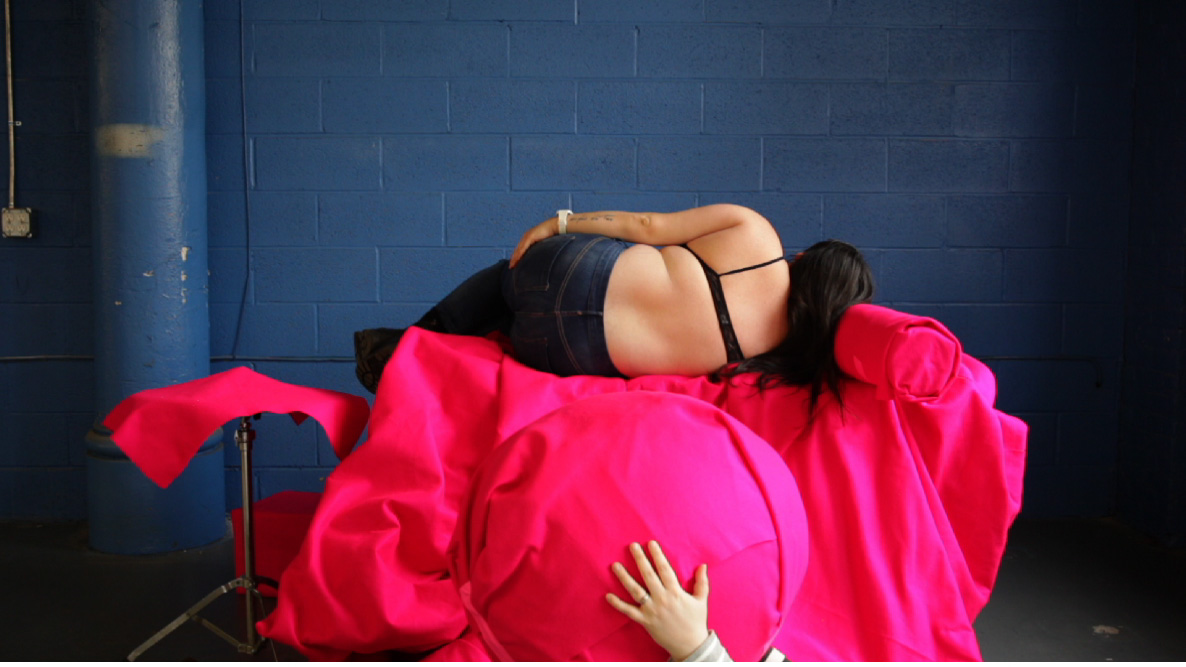
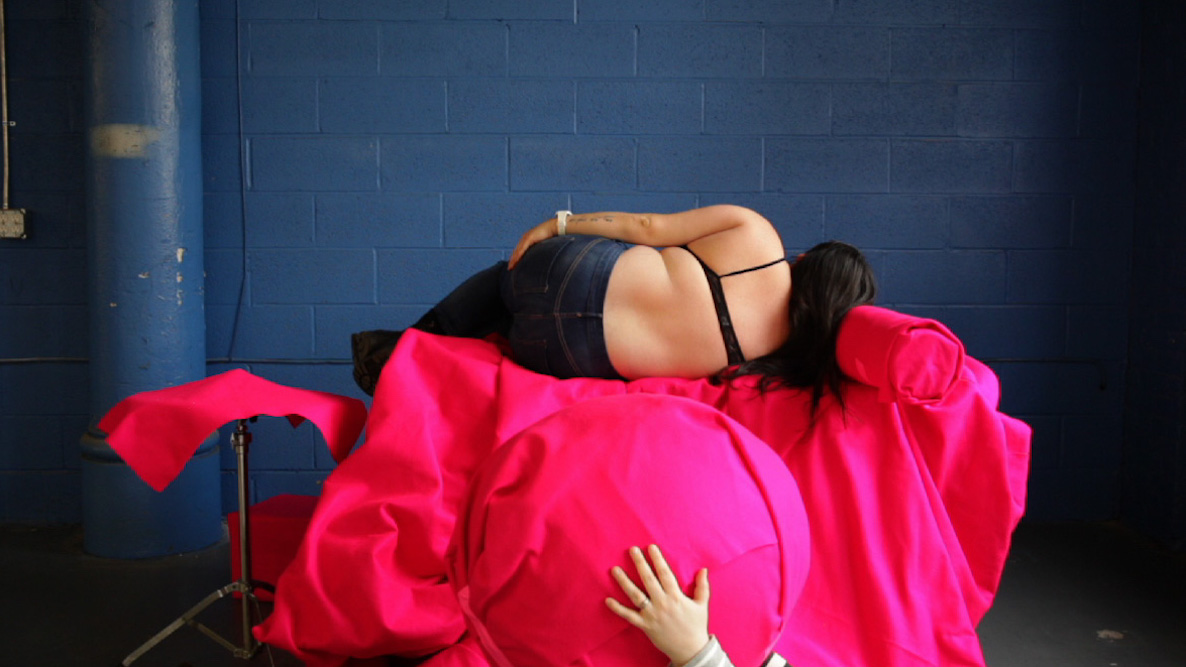
remove white border from two images

diff --git a/public/c96986d83839e397245932dbc61a4929.css b/public/c96986d83839e397245932dbc61a4929.css
@@ -1,381 +1,1 @@
-/* http://meyerweb.com/eric/tools/css/reset/
-   v2.0 | 20110126
-   License: none (public domain)
-*/
-html, body, div, span, applet, object, iframe,
-h1, h2, h3, h4, h5, h6, p, blockquote, pre,
-a, abbr, acronym, address, big, cite, code,
-del, dfn, em, img, ins, kbd, q, s, samp,
-small, strike, strong, sub, sup, tt, var,
-b, u, i, center,
-dl, dt, dd, ol, ul, li,
-fieldset, form, label, legend,
-table, caption, tbody, tfoot, thead, tr, th, td,
-article, aside, canvas, details, embed,
-figure, figcaption, footer, header, hgroup,
-menu, nav, output, ruby, section, summary,
-time, mark, audio, video {
-  margin: 0;
-  padding: 0;
-  border: 0;
-  font-size: 100%;
-  font: inherit;
-  vertical-align: baseline; }
-
-/* HTML5 display-role reset for older browsers */
-article, aside, details, figcaption, figure,
-footer, header, hgroup, menu, nav, section {
-  display: block; }
-
-body {
-  line-height: 1; }
-
-ol, ul {
-  list-style: none; }
-
-blockquote, q {
-  quotes: none; }
-
-blockquote:before, blockquote:after,
-q:before, q:after {
-  content: '';
-  content: none; }
-
-table {
-  border-collapse: collapse;
-  border-spacing: 0; }
-
-@font-face {
-  font-family: 'EntypoRegular';
-  src: url(/entypo.eot);
-  src: url(/entypo.eot?#iefix) format("embedded-opentype"), url(/entypo.woff) format("application/x-font-woff"), url(/entypo.ttf) format("truetype"), url(/entypo.svg#EntypoRegular) format("svg");
-  font-weight: normal;
-  font-style: normal; }
-
-@font-face {
-  font-family: 'TCCrimson';
-  src: url(/TC-crimson-roman-webfont.eot);
-  src: url(/TC-crimson-roman-webfont.eot?#iefix) format("embedded-opentype"), url(/TC-crimson-roman-webfont.woff) format("application/x-font-woff"), url(/TC-crimson-roman-webfont.ttf) format("truetype");
-  font-weight: normal;
-  font-style: normal; }
-
-@font-face {
-  font-family: 'TCCrimson';
-  src: url(/TC-crimson-bold-webfont.eot);
-  src: url(/TC-crimson-bold-webfont.eot?#iefix) format("embedded-opentype"), url(/TC-crimson-bold-webfont.woff) format("application/x-font-woff"), url(/TC-crimson-bold-webfont.ttf) format("truetype");
-  font-weight: bold;
-  font-style: normal; }
-
-@font-face {
-  font-family: 'TCCrimson';
-  src: url(/TC-crimson-italic-webfont.eot);
-  src: url(/TC-crimson-italic-webfont.eot?#iefix) format("embedded-opentype"), url(/TC-crimson-italic-webfont.woff) format("application/x-font-woff"), url(/TC-crimson-italic-webfont.ttf) format("truetype");
-  font-weight: normal;
-  font-style: italic; }
-
-@font-face {
-  font-family: 'TCCrimson';
-  src: url(/TC-crimson-bolditalic-webfont.eot);
-  src: url(/TC-crimson-bolditalic-webfont.eot?#iefix) format("embedded-opentype"), url(/TC-crimson-bolditalic-webfont.woff) format("application/x-font-woff"), url(/TC-crimson-bolditalic-webfont.ttf) format("truetype");
-  font-weight: bold;
-  font-style: italic; }
-
-@font-face {
-  font-family: 'gc16 Mono';
-  src: url(/gc16-Mono.woff), url(/gc16-Mono.woff2);
-  font-weight: normal;
-  font-style: normal; }
-
-@font-face {
-  font-family: 'gc16 Mono';
-  src: url(/gc16-MonoItalic.woff), url(/gc16-MonoItalic.woff2);
-  font-weight: normal;
-  font-style: italic; }
-
-@font-face {
-  font-family: 'FreeUniversal';
-  src: url(/FreeUniversal-Regular.ttf) format("truetype");
-  font-weight: normal;
-  font-style: normal; }
-
-@font-face {
-  font-family: 'FreeUniversal-Bold';
-  src: url(/FreeUniversal-Bold.ttf) format("truetype");
-  font-weight: Bold;
-  font-style: normal; }
-
-@font-face {
-  font-family: 'FreeUniversal-Italic';
-  src: url(/FreeUniversal-Italic.ttf) format("truetype");
-  font-weight: normal;
-  font-style: italic; }
-
-@font-face {
-  font-family: 'FreeUniversal-Bold-Italic';
-  src: url(/FreeUniversal-Bold-Italic.ttf) format("truetype");
-  font-weight: Bold;
-  font-style: italic; }
-
-@font-face {
-  font-family: 'TCGlyphs';
-  src: url(/TCGlyphs-Regular.otf) format("embedded-opentype");
-  src: url(/TCGlyphs-Regular.ttf) format("truetype");
-  font-weight: normal;
-  font-style: normal; }
-
-.grid {
-  display: none;
-  max-width: calc(100% - 220px);
-  padding: 0;
-  margin: 0 auto;
[1 lines of base64/hex data omitted]
-  background-size: 100%;
-  background-image: -webkit-gradient(linear, 0% 50%, 100% 50%, color-stop(0%, transparent), color-stop(0%, rgba(121, 121, 229, 0.25)), color-stop(2.47469%, rgba(79, 79, 221, 0.25)), color-stop(2.47469%, transparent), color-stop(5.73678%, transparent), color-stop(5.73678%, rgba(121, 121, 229, 0.25)), color-stop(8.21147%, rgba(79, 79, 221, 0.25)), color-stop(8.21147%, transparent), color-stop(11.47357%, transparent), color-stop(11.47357%, rgba(121, 121, 229, 0.25)), color-stop(13.94826%, rgba(79, 79, 221, 0.25)), color-stop(13.94826%, transparent), color-stop(17.21035%, transparent), color-stop(17.21035%, rgba(121, 121, 229, 0.25)), color-stop(19.68504%, rgba(79, 79, 221, 0.25)), color-stop(19.68504%, transparent), color-stop(22.94713%, transparent), color-stop(22.94713%, rgba(121, 121, 229, 0.25)), color-stop(25.42182%, rgba(79, 79, 221, 0.25)), color-stop(25.42182%, transparent), color-stop(28.68391%, transparent), color-stop(28.68391%, rgba(121, 121, 229, 0.25)), color-stop(31.15861%, rgba(79, 79, 221, 0.25)), color-stop(31.15861%, transparent), color-stop(34.4207%, transparent), color-stop(34.4207%, rgba(121, 121, 229, 0.25)), color-stop(36.89539%, rgba(79, 79, 221, 0.25)), color-stop(36.89539%, transparent), color-stop(40.15748%, transparent), color-stop(40.15748%, rgba(121, 121, 229, 0.25)), color-stop(42.63217%, rgba(79, 79, 221, 0.25)), color-stop(42.63217%, transparent), color-stop(45.89426%, transparent), color-stop(45.89426%, rgba(121, 121, 229, 0.25)), color-stop(48.36895%, rgba(79, 79, 221, 0.25)), color-stop(48.36895%, transparent), color-stop(51.63105%, transparent), color-stop(51.63105%, rgba(121, 121, 229, 0.25)), color-stop(54.10574%, rgba(79, 79, 221, 0.25)), color-stop(54.10574%, transparent), color-stop(57.36783%, transparent), color-stop(57.36783%, rgba(121, 121, 229, 0.25)), color-stop(59.84252%, rgba(79, 79, 221, 0.25)), color-stop(59.84252%, transparent), color-stop(63.10461%, transparent), color-stop(63.10461%, rgba(121, 121, 229, 0.25)), color-stop(65.5793%, rgba(79, 79, 221, 0.25)), color-stop(65.5793%, transparent), color-stop(68.84139%, transparent), color-stop(68.84139%, rgba(121, 121, 229, 0.25)), color-stop(71.31609%, rgba(79, 79, 221, 0.25)), color-stop(71.31609%, transparent), color-stop(74.57818%, transparent), color-stop(74.57818%, rgba(121, 121, 229, 0.25)), color-stop(77.05287%, rgba(79, 79, 221, 0.25)), color-stop(77.05287%, transparent), color-stop(80.31496%, transparent), color-stop(80.31496%, rgba(121, 121, 229, 0.25)), color-stop(82.78965%, rgba(79, 79, 221, 0.25)), color-stop(82.78965%, transparent), color-stop(86.05174%, transparent), color-stop(86.05174%, rgba(121, 121, 229, 0.25)), color-stop(88.52643%, rgba(79, 79, 221, 0.25)), color-stop(88.52643%, transparent), color-stop(91.78853%, transparent), color-stop(91.78853%, rgba(121, 121, 229, 0.25)), color-stop(94.26322%, rgba(79, 79, 221, 0.25)), color-stop(94.26322%, transparent), color-stop(97.52531%, transparent), color-stop(97.52531%, rgba(121, 121, 229, 0.25)), color-stop(100%, rgba(79, 79, 221, 0.25)), color-stop(100%, transparent), color-stop(100%, transparent));
-  background-image: -webkit-linear-gradient(left, transparent 0%, rgba(121, 121, 229, 0.25) 0%, rgba(79, 79, 221, 0.25) 2.47469%, transparent 2.47469%, transparent 5.73678%, rgba(121, 121, 229, 0.25) 5.73678%, rgba(79, 79, 221, 0.25) 8.21147%, transparent 8.21147%, transparent 11.47357%, rgba(121, 121, 229, 0.25) 11.47357%, rgba(79, 79, 221, 0.25) 13.94826%, transparent 13.94826%, transparent 17.21035%, rgba(121, 121, 229, 0.25) 17.21035%, rgba(79, 79, 221, 0.25) 19.68504%, transparent 19.68504%, transparent 22.94713%, rgba(121, 121, 229, 0.25) 22.94713%, rgba(79, 79, 221, 0.25) 25.42182%, transparent 25.42182%, transparent 28.68391%, rgba(121, 121, 229, 0.25) 28.68391%, rgba(79, 79, 221, 0.25) 31.15861%, transparent 31.15861%, transparent 34.4207%, rgba(121, 121, 229, 0.25) 34.4207%, rgba(79, 79, 221, 0.25) 36.89539%, transparent 36.89539%, transparent 40.15748%, rgba(121, 121, 229, 0.25) 40.15748%, rgba(79, 79, 221, 0.25) 42.63217%, transparent 42.63217%, transparent 45.89426%, rgba(121, 121, 229, 0.25) 45.89426%, rgba(79, 79, 221, 0.25) 48.36895%, transparent 48.36895%, transparent 51.63105%, rgba(121, 121, 229, 0.25) 51.63105%, rgba(79, 79, 221, 0.25) 54.10574%, transparent 54.10574%, transparent 57.36783%, rgba(121, 121, 229, 0.25) 57.36783%, rgba(79, 79, 221, 0.25) 59.84252%, transparent 59.84252%, transparent 63.10461%, rgba(121, 121, 229, 0.25) 63.10461%, rgba(79, 79, 221, 0.25) 65.5793%, transparent 65.5793%, transparent 68.84139%, rgba(121, 121, 229, 0.25) 68.84139%, rgba(79, 79, 221, 0.25) 71.31609%, transparent 71.31609%, transparent 74.57818%, rgba(121, 121, 229, 0.25) 74.57818%, rgba(79, 79, 221, 0.25) 77.05287%, transparent 77.05287%, transparent 80.31496%, rgba(121, 121, 229, 0.25) 80.31496%, rgba(79, 79, 221, 0.25) 82.78965%, transparent 82.78965%, transparent 86.05174%, rgba(121, 121, 229, 0.25) 86.05174%, rgba(79, 79, 221, 0.25) 88.52643%, transparent 88.52643%, transparent 91.78853%, rgba(121, 121, 229, 0.25) 91.78853%, rgba(79, 79, 221, 0.25) 94.26322%, transparent 94.26322%, transparent 97.52531%, rgba(121, 121, 229, 0.25) 97.52531%, rgba(79, 79, 221, 0.25) 100%, transparent 100%, transparent 100%);
-  background-image: linear-gradient(to right, transparent 0%, rgba(121, 121, 229, 0.25) 0%, rgba(79, 79, 221, 0.25) 2.47469%, transparent 2.47469%, transparent 5.73678%, rgba(121, 121, 229, 0.25) 5.73678%, rgba(79, 79, 221, 0.25) 8.21147%, transparent 8.21147%, transparent 11.47357%, rgba(121, 121, 229, 0.25) 11.47357%, rgba(79, 79, 221, 0.25) 13.94826%, transparent 13.94826%, transparent 17.21035%, rgba(121, 121, 229, 0.25) 17.21035%, rgba(79, 79, 221, 0.25) 19.68504%, transparent 19.68504%, transparent 22.94713%, rgba(121, 121, 229, 0.25) 22.94713%, rgba(79, 79, 221, 0.25) 25.42182%, transparent 25.42182%, transparent 28.68391%, rgba(121, 121, 229, 0.25) 28.68391%, rgba(79, 79, 221, 0.25) 31.15861%, transparent 31.15861%, transparent 34.4207%, rgba(121, 121, 229, 0.25) 34.4207%, rgba(79, 79, 221, 0.25) 36.89539%, transparent 36.89539%, transparent 40.15748%, rgba(121, 121, 229, 0.25) 40.15748%, rgba(79, 79, 221, 0.25) 42.63217%, transparent 42.63217%, transparent 45.89426%, rgba(121, 121, 229, 0.25) 45.89426%, rgba(79, 79, 221, 0.25) 48.36895%, transparent 48.36895%, transparent 51.63105%, rgba(121, 121, 229, 0.25) 51.63105%, rgba(79, 79, 221, 0.25) 54.10574%, transparent 54.10574%, transparent 57.36783%, rgba(121, 121, 229, 0.25) 57.36783%, rgba(79, 79, 221, 0.25) 59.84252%, transparent 59.84252%, transparent 63.10461%, rgba(121, 121, 229, 0.25) 63.10461%, rgba(79, 79, 221, 0.25) 65.5793%, transparent 65.5793%, transparent 68.84139%, rgba(121, 121, 229, 0.25) 68.84139%, rgba(79, 79, 221, 0.25) 71.31609%, transparent 71.31609%, transparent 74.57818%, rgba(121, 121, 229, 0.25) 74.57818%, rgba(79, 79, 221, 0.25) 77.05287%, transparent 77.05287%, transparent 80.31496%, rgba(121, 121, 229, 0.25) 80.31496%, rgba(79, 79, 221, 0.25) 82.78965%, transparent 82.78965%, transparent 86.05174%, rgba(121, 121, 229, 0.25) 86.05174%, rgba(79, 79, 221, 0.25) 88.52643%, transparent 88.52643%, transparent 91.78853%, rgba(121, 121, 229, 0.25) 91.78853%, rgba(79, 79, 221, 0.25) 94.26322%, transparent 94.26322%, transparent 97.52531%, rgba(121, 121, 229, 0.25) 97.52531%, rgba(79, 79, 221, 0.25) 100%, transparent 100%, transparent 100%);
-  background-position: left top;
-  background-origin: content-box;
-  background-clip: content-box;
-  height: 100%;
-  position: fixed;
-  top: 0;
-  left: 0;
-  right: 0;
-  bottom: 0; }
-
-body {
-  -webkit-font-smoothing: antialiased;
-  -moz-osx-font-smoothing: grayscale;
-  background-color: #ffffff;
-  margin: 0;
-  font-size: 100%;
-  line-height: 1;
-  text-align: left; }
-
-.meta {
-  width: auto;
-  height: 2.88rem;
-  position: absolute;
-  left: 17.5%;
-  top: 5.35rem; }
-
-.meta * {
-  font-family: "FreeUniversal", Futura, "Trebuchet MS", Arial, sans-serif;
-  display: inline-block;
-  float: left;
-  margin-right: 1.3rem; }
-
-.meta .type, .meta .date {
-  margin-top: 1.35rem;
-  font-size: 0.63rem; }
-
-.meta .glyph {
-  font-family: "TCGlyphs", monospace;
-  font-size: 2.88rem;
-  width: 30px;
-  color: black;
-  -webkit-transition: color 0.15s ease-out;
-  transition: color 0.15s ease-out; }
-
-.meta .glyph:hover {
-  color: #5050c5; }
-
-.meta .glyph::before {
-  content: "\e023"; }
-
-.meta .glyph a {
-  width: 30px;
-  height: 50px; }
-
-.container {
-  width: 65%;
-  left: 17.5%;
-  top: 19.8rem;
-  position: absolute; }
-
-.title {
-  line-height: 1.3;
-  font-family: "gc16 Mono", monospace;
-  font-size: 1.125rem;
-  font-weight: normal;
-  font-size: 2.1rem;
-  line-height: 1.2;
-  text-align: left;
-  display: inline; }
-
-.byline {
-  line-height: 1.3;
-  font-family: "gc16 Mono", monospace;
-  font-size: 1.125rem;
-  font-weight: normal;
-  margin-bottom: 100px;
-  font-size: 2.1rem;
-  line-height: 1.2;
-  text-align: left;
-  display: inline;
-  margin-left: 10px; }
-
-.byline a {
-  color: black;
-  text-decoration: none;
-  -webkit-transition: color 0.15s ease-out;
-  transition: color 0.15s ease-out; }
-
-.byline a:hover {
-  color: #5050c5; }
-
-.intro {
-  max-width: 800px;
-  margin: 0 auto;
-  margin: 0px;
-  font-size: 1.75rem;
-  line-height: 1.4;
-  font-family: "TCCrimson", TimesNewRoman, "Times New Roman", Times, Baskerville, Georgia, serif;
-  display: inline; }
-
-.issue-series-link {
-  display: block;
-  position: absolute;
-  height: 25px;
-  width: 25px;
-  top: -5px;
-  opacity: 0.4;
-  left: 1px; }
-
-@media screen and (max-width: 680px) {
-  .title, .byline {
-    font-size: 1.57rem; }
-  .intro {
-    font-size: 1.5rem; } }
-
-.loader__outer {
-  position: fixed;
-  top: -114px;
-  left: 0;
-  right: 0;
-  bottom: 0;
-  z-index: 999999;
-  background: #fff;
-  display: -webkit-box;
-  display: -ms-flexbox;
-  display: flex;
-  -webkit-box-pack: center;
-  -ms-flex-pack: center;
-  justify-content: center;
-  -webkit-box-align: center;
-  -ms-flex-align: center;
-  align-items: center; }
-  .loader__outer .loader__inner {
-    position: relative;
-    width: 100%; }
-    .loader__outer .loader__inner .loader__spinner {
-      height: 22px;
-      width: 22px;
-      margin: 94px auto 0;
-      position: relative;
-      -webkit-animation: a .7s infinite linear;
-      animation: a .7s infinite linear;
-      border-left: 1px solid #222;
-      border-right: 1px solid #222;
-      border-bottom: 1px solid #222;
-      border-top: 1px solid transparent;
-      border-radius: 100%; }
-
-@-webkit-keyframes a {
-  0% {
-    -webkit-transform: rotate(0deg); }
-  to {
-    -webkit-transform: rotate(1turn); } }
-
-@keyframes a {
-  0% {
-    -webkit-transform: rotate(0deg);
-    transform: rotate(0deg); }
-  to {
-    -webkit-transform: rotate(1turn);
-    transform: rotate(1turn); } }
-
-html, body {
-  width: 100%; }
-
-html {
-  min-height: 200%; }
-
-body {
-  background-color: #fff; }
-
-.media {
-  position: absolute;
-  background-color: transparent; }
-  .media__container {
-    display: none;
-    position: absolute;
-    top: 0;
-    left: 0;
-    bottom: 0;
-    right: 0; }
-    .media__container--image {
-      background-color: transparent;
-      background-repeat: no-repeat;
-      background-position: center;
-      background-size: cover;
-      position: absolute;
-      top: 0;
-      left: 0;
-      bottom: 0;
-      right: 0; }
-    .media__container--video {
-      background-color: transparent;
-      background-repeat: no-repeat;
-      background-position: center;
-      background-size: cover;
-      position: absolute;
-      top: 0;
-      left: 0;
-      bottom: 0;
-      right: 0; }
-      .media__container--video video {
-        height: 100%;
-        width: 100%; }
-    .media__container--audio audio {
-      display: none; }
-  .media__audio {
-    background-color: transparent; }
-
-.media__controls {
-  display: none;
-  position: fixed;
-  top: 0;
-  left: 0;
-  right: 0;
-  bottom: 0;
-  background-color: transparent; }
-  .media__controls .media__button {
-    cursor: pointer;
-    font-family: 'EntypoRegular';
-    font-size: 2em;
-    font-weight: normal;
-    line-height: 0;
-    -webkit-font-smoothing: antialiased;
-    -moz-osx-font-smoothing: grayscale;
-    display: block;
-    padding: 0;
-    border-radius: 50%;
-    border: 1px solid #222;
-    width: 48px;
-    height: 48px;
-    background-color: transparent;
-    position: fixed;
-    bottom: 14px;
-    left: calc( 50% - 24px); }
-    .media__controls .media__button:before {
-      color: #222;
-      display: block;
-      line-height: 1.5;
-      height: 100%;
-      width: 100%;
-      text-align: center; }
-    .media__controls .media__button.play:before {
-      content: '\25B6'; }
-    .media__controls .media__button.pause:before {
-      content: '\2016'; }
[1 lines of base64/hex data omitted]

diff --git a/public/c96986d83839e397245932dbc61a4929.js b/public/c96986d83839e397245932dbc61a4929.js
@@ -344,6 +344,8 @@ var Media = function () {
       var css = { height: d.y, width: d.x, top: p.y, left: p.x };
       this.main.append(elem.attr('data-pos-x', p.rx).css(css));
       elem.find('.media__container').fadeIn(this.settings.fadeSpeed);
+      console.log(elem.attr);
+      //console.log("type:", type, "d:", d, "p:", p, "css:", css)
     }
   }, {
     key: 'createElement',
